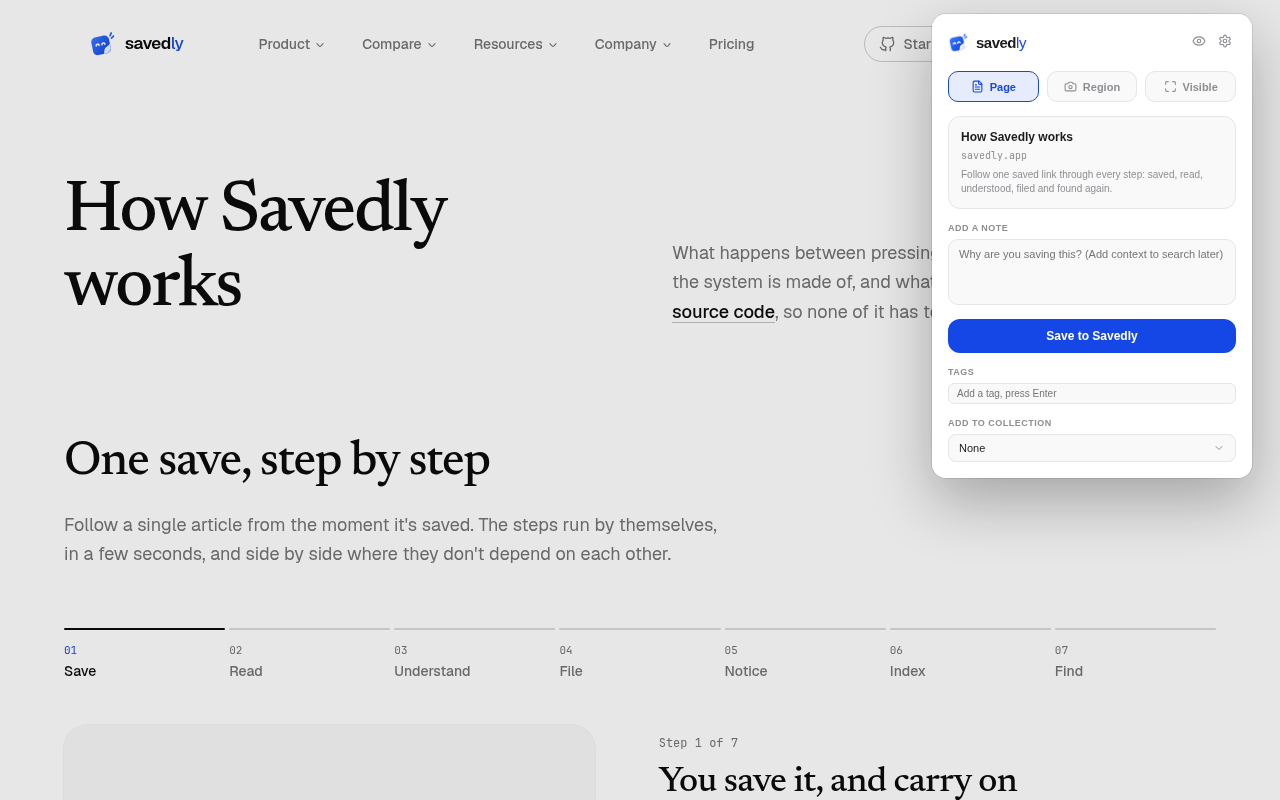
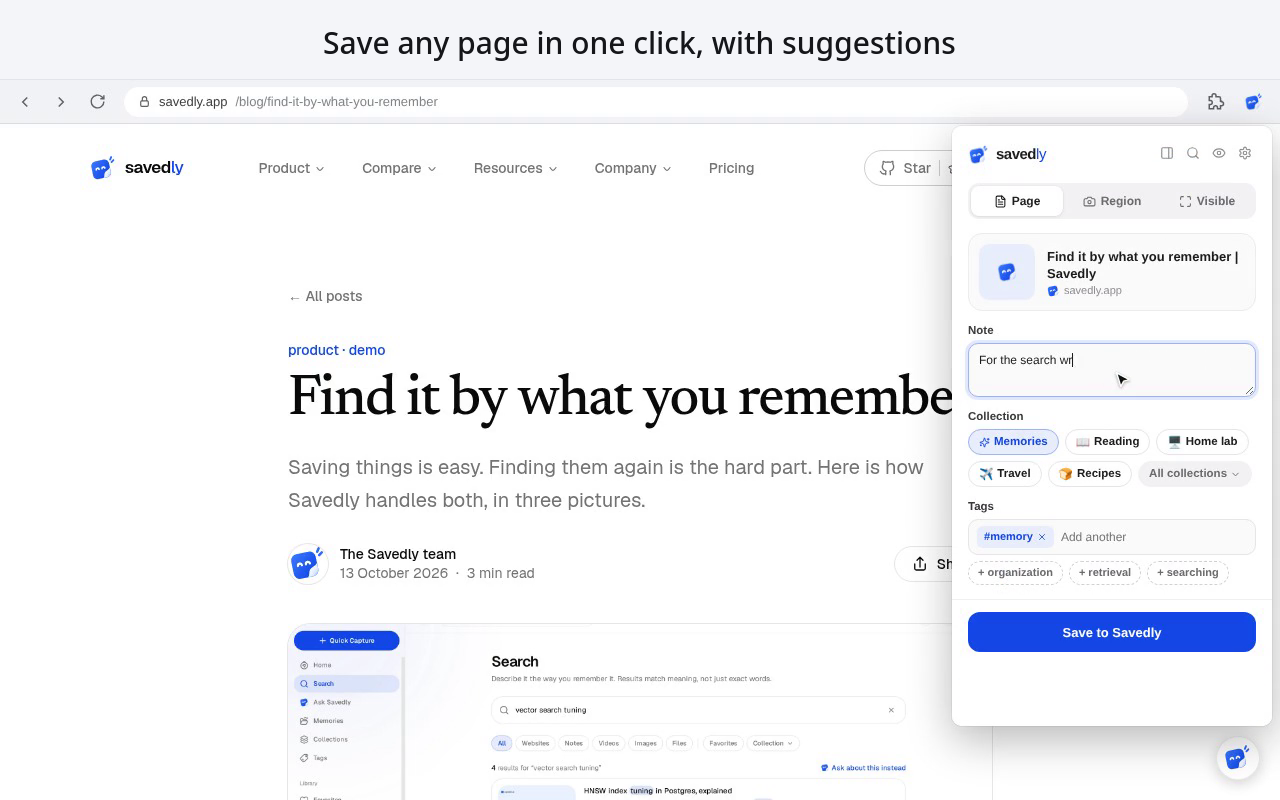
Store listing for extension 1.2
The description now covers highlights, the side panel, suggestions as you
save, the address-bar search, the ✓ for saved pages and read later with
reminders; the summary mentions highlighting. Five new 1280×800
screenshots, frames of the real extension from the website's clips with a
caption above, replace the two of 1.0. The steps say 1.2 is an update to a
published listing whose permission warnings are unchanged (checked with
chrome.management.getPermissionWarningsByManifest), that the server must
be deployed first, and that `pnpm package` builds into dist. Reviewer
steps include highlighting and the side panel.

Claude-Session: https://claude.ai/code/session_01AgpmTuGqBhmGbigqSjCZgM

diff --git a/extension/store/LISTING.md b/extension/store/LISTING.md
@@ -3,14 +3,27 @@
 Everything to paste into the Chrome Web Store developer dashboard
 (https://chrome.google.com/webstore/devconsole). The package to upload is made
 with `pnpm package` in `extension/`, which writes `savedly-extension-<version>.zip`.
+(It builds into `extension/dist`, so a local build loaded from there becomes the
+production one; run `pnpm build:local` again afterwards to go back.)
+
+The extension is published (version 1.0.1). Version 1.2.0 is an update: upload
+the new package under Package, then replace the description and screenshots
+below. Its permission warnings are the same as 1.0.1's ("Read and change all
+your data on all websites", "Display notifications"), checked with
+`chrome.management.getPermissionWarningsByManifest`, so the update installs for
+existing users without asking them to approve anything.
 
 ## Before you submit
 
-1. The website must be deployed with the privacy policy's "The browser
-   extension" section live, because the listing links to it.
+1. Deploy the website and server first: the extension's new features call
+   server routes that 1.0.1 didn't use (highlights, suggestions, recent
+   collections, reminders), and run the database migrations. The privacy
+   policy's "The browser extension" section must be live, because the listing
+   links to it.
 2. Load the production build once and try it against the real service:
    `pnpm build`, then chrome://extensions → Developer mode → Load unpacked →
-   `extension/dist`. Sign in at savedly.app, save a page, take a screenshot.
+   `extension/dist`. Sign in at savedly.app, save a page, highlight some text,
+   open the side panel (Ctrl+Shift+E), take a screenshot.
 3. Raise `version` in `public/manifest.json` and `package.json` for every
    later upload. The store rejects a version it has already seen.
 
@@ -20,7 +33,7 @@ with `pnpm package` in `extension/`, which writes `savedly-extension-<version>.z
 
 **Summary** (132 characters at most):
 
-> Save pages, links, text, images and screenshots to Savedly, and find them again by describing what you remember.
+> Save and highlight pages, links, text and screenshots in Savedly, and find them again by describing what you remember.
 
 **Category:** Productivity → Tools (or "Workflow & Planning")
 
@@ -35,11 +48,15 @@ This extension is the quick way in. It needs a Savedly account (free), and uses 
 
 WHAT IT DOES
 
-• Save the page you're on, with an optional note, tags and collection.
-• Right-click to save a link, an image, or the text you've selected.
+• Save the page you're on in one click, with an optional note. Savedly suggests a collection and tags, keeps your recent collections one tap away, and lets you pick the cover picture.
+• Highlight text on any page in five colours, with notes. Your highlights come back when you return to the page, and you can search them.
+• Keep Savedly open in Chrome's side panel (Ctrl+Shift+E): the page you're on, your Inbox, search, recent saves and collections.
+• Right-click to save a link, an image, or the text you've selected, or send the page straight to one of your recent collections.
 • Take a screenshot of an area, or of the visible page, and save it.
-• Press Ctrl+Shift+S (Cmd+Shift+S on Mac) to save the current page at once.
-• An optional button on the page gives the same actions. You can turn it off from the extension.
+• Search your library from the address bar: type sv, a space, and what you remember.
+• A ✓ on the Savedly icon shows the page you're on is already saved.
+• Read it later: links you save wait in your Inbox, and Remind me brings one back with a notification.
+• Press Ctrl+Shift+S (Cmd+Shift+S on Mac) to save the current page at once. An optional button on the page gives quick actions; you can drag it anywhere or turn it off.
 
 WHAT HAPPENS AFTER YOU SAVE
 
@@ -47,18 +64,21 @@ Savedly reads what you saved, writes a short summary, and suggests tags. Later y
 
 PRIVACY
 
-Nothing about a page is sent until you choose to save it. The extension does not collect your browsing history. Savedly is open source, so you can read exactly what it does: https://github.com/jyotishankar04/savedly
+Nothing about a page is sent until you save it, highlight on it, or open Savedly on it. The extension does not collect your browsing history: to show the ✓ on pages you've saved, it compares short fingerprints of addresses on your own computer. Savedly is open source, so you can read exactly what it does: https://github.com/jyotishankar04/savedly
 
 Privacy policy: https://savedly.app/privacy
 ```
 
-**Images** (in this folder):
+**Images** (in this folder; the screenshots are frames of the real extension from the clips on savedly.app/chrome-extension, with a caption above):
 
 | Field | File | Size |
 | --- | --- | --- |
 | Store icon | `../public/icon-128.png` | 128×128 |
 | Screenshot 1 | `screenshot-1-save-a-page.png` | 1280×800 |
-| Screenshot 2 | `screenshot-2-on-page-button.png` | 1280×800 |
+| Screenshot 2 | `screenshot-2-highlight.png` | 1280×800 |
+| Screenshot 3 | `screenshot-3-side-panel.png` | 1280×800 |
+| Screenshot 4 | `screenshot-4-search.png` | 1280×800 |
+| Screenshot 5 | `screenshot-5-read-later.png` | 1280×800 |
 | Small promo tile | `promo-small-440x280.png` | 440×280 |
 
 **Links:** website `https://savedly.app`, support `https://savedly.app/contact`.
@@ -101,11 +121,13 @@ sign-in details in the "Test instructions" box:
 
 > 1. Sign in at https://savedly.app with the account above.
 > 2. Open any web page and click the Savedly icon: the page's title appears. Click "Save to Savedly".
-> 3. Right-click a link, image or selected text → "Save to Savedly".
-> 4. Saved items appear at https://savedly.app/app/memories.
+> 3. Select some text on a page: a small toolbar appears. Pick a colour to highlight it.
+> 4. Press Ctrl+Shift+E (or right-click → Save to Savedly → Open Savedly side panel) to open the side panel.
+> 5. Right-click a link, image or selected text → "Save to Savedly".
+> 6. Saved items appear at https://savedly.app/app/memories.
 
 ## After it is approved
 
-- Put the store link on the website, which says "Coming soon" for the extension today.
+- Publish the website's /chrome-extension page with (or after) the update: it describes 1.2.
 - A self-hosted install can't use the store build, which talks to savedly.app.
   It builds its own copy: `SAVEDLY_API_ORIGIN=https://api.example.com SAVEDLY_WEB_URL=https://example.com pnpm build`.
